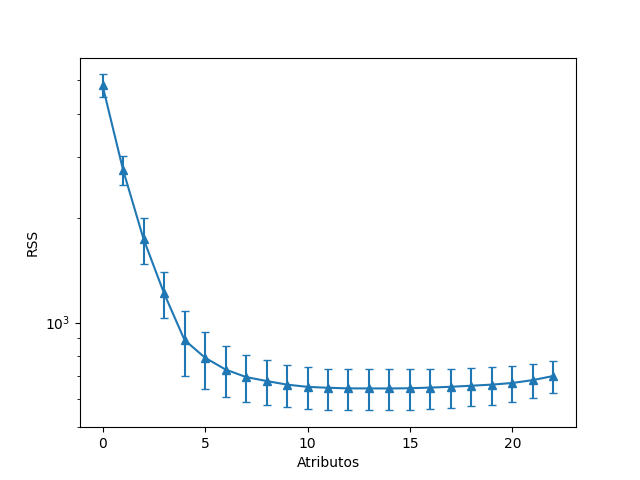
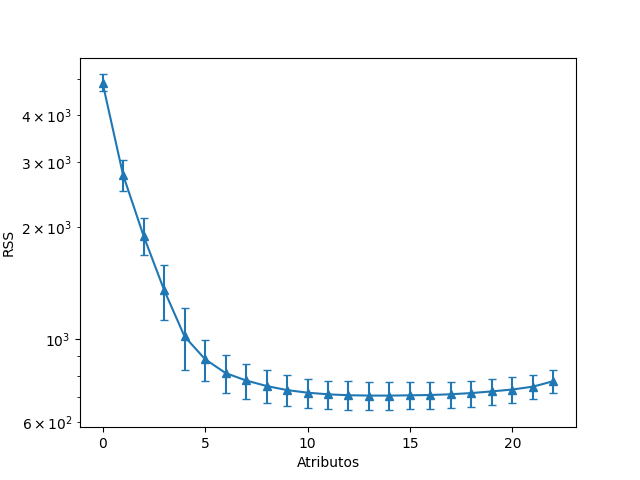
Feat: Final touches to exercise

diff --git a/ej_regresion/main.py b/ej_regresion/main.py
@@ -4,7 +4,7 @@ import numpy as np
 import random
 import matplotlib.pyplot as plt
 from math import sqrt
-from constants import Headers, x_headers_list
+from constants import Headers, x_headers_list, best_headers_list
 import matplotlib.gridspec as gridspec
 from sklearn.model_selection import train_test_split
 
@@ -31,6 +31,9 @@ def split_df_filtered_attributes(df, attributes, seed):
     y = df[Headers.WEIGHT.value]
     x_train, x_test, y_train, y_test = split_train_test_dataset(x, y, seed)
     return x_train, x_test, y_train, y_test
+
+def split_df_good_attributes(df, seed):
+    return split_df_filtered_attributes(df, best_headers_list, seed)
 
 def run_regression(x_train, y_train):
     # Convert X and Y to matrix and array
@@ -109,13 +112,17 @@ def main():
     df = read_data(args.file)
 
     graph_data2 = []
-    error2 = []
     graph_data3 = []
+    graph_data4 = []
+    error2 = []
     error3 = []
-    for attr in range(len(x_headers_list)):
+    error4 = []
+    attribute_scores = {}
+    for attr in x_headers_list:
         graph_data3.append([])
         error3.append([])
-    for i in range(10):
+        attribute_scores[attr] = 0
+    for i in range(250):
         seed = random.randint(1, 9999)
 
         # EJERCICIO 2
@@ -135,54 +142,74 @@ def main():
 
         # EJERCICIO 3 (Forward Selection, usa solo RSS)
         #print("\n== EJERCICIO 3 -- FORWARD SELECTION ==")
-        p = len(x_headers_list)
-        list_of_attributes = []
-        best_attributes = []
-        best_attributes_global = []
-        best_data = []
-        best_data_global = []
-        min_RSS_global = 99999999
-        for amount_of_attributes in range(p):
-            min_RSS = 99999999
-            for attr in x_headers_list:
-                current_attributes = list_of_attributes.copy()
-                current_attributes.append(attr)
-                x_train, x_test, y_train, y_test = split_df_filtered_attributes(df, current_attributes, seed)
-                B, X = run_regression(x_train, y_train)
-                if B is not None:
-                    RSS, TSS, sigma2, R2, R2adj, F = test(x_test, y_test, B)
-                    if RSS < min_RSS:
-                        min_RSS = RSS
-                        best_attributes = current_attributes.copy()
-                        best_data = [B, RSS, TSS, sigma2, R2, R2adj, F]
-            list_of_attributes = best_attributes.copy()
-            #print(amount_of_attributes+1, "attributes -> RSS =", min_RSS)
-            graph_data3[amount_of_attributes].append(min_RSS)
-            error3[amount_of_attributes].append(sqrt(sigma2))
-            if min_RSS < min_RSS_global:
-                best_attributes_global = best_attributes.copy()
-                min_RSS_global = min_RSS
-                best_data_global = best_data.copy()
+        #p = len(x_headers_list)
+        #list_of_attributes = []
+        #best_attributes = []
+        #best_attributes_global = []
+        #best_data = []
+        #best_data_global = []
+        #min_RSS_global = 99999999
+        #for amount_of_attributes in range(p):
+        #    min_RSS = 99999999
+        #    for attr in x_headers_list:
+        #        current_attributes = list_of_attributes.copy()
+        #        current_attributes.append(attr)
+        #        x_train, x_test, y_train, y_test = split_df_filtered_attributes(df, current_attributes, seed)
+        #        B, X = run_regression(x_train, y_train)
+        #        if B is not None:
+        #            RSS, TSS, sigma2, R2, R2adj, F = test(x_test, y_test, B)
+        #            if RSS < min_RSS:
+        #                min_RSS = RSS
+        #                best_attributes = current_attributes.copy()
+        #                best_data = [B, RSS, TSS, sigma2, R2, R2adj, F]
+        #    list_of_attributes = best_attributes.copy()
+        #    for attr in list_of_attributes:
+        #        attribute_scores[attr] += 1
+        #    print(amount_of_attributes+1, "attributes -> RSS =", min_RSS)
+        #    graph_data3[amount_of_attributes].append(min_RSS)
+        #    error3[amount_of_attributes].append(sqrt(sigma2))
+        #    if min_RSS < min_RSS_global:
+        #        best_attributes_global = best_attributes.copy()
+        #        min_RSS_global = min_RSS
+        #        best_data_global = best_data.copy()
         #print("\nRSS = ", min_RSS_global, " using", len(best_attributes_global),"attributes:")
         #print(best_attributes_global)
         #print("sigma2 =", best_data_global[3])
         #print("R2 =", best_data_global[4])
         #print("R2 adj =", best_data_global[5])
         #print("F =", best_data_global[6])
+
+        print("== EJERCICIO 4 -- NUEVO MODELO ==")
+        x_train, x_test, y_train, y_test = split_df_good_attributes(df, seed)
+        B, X = run_regression(x_train, y_train)
+        RSS, TSS, sigma2, R2, R2adj, F = test(x_test, y_test, B)
+        varB = sigma2 * (X.T*X).I
+        print("RSS =", RSS)
+        graph_data4.append(RSS)
+        error4.append(sqrt(sigma2))
+        print("sigma2 =", sigma2)
+        print("R2 =", R2)
+        print("R2 adj =", R2adj)
+        print("F =", F)
+        get_standard_error(x_train, B, sigma2)
     plot_x = []
     plot_y = []
     plot_e = []
-    for i in range(p):
-        plot_x.append(i)
-        plot_y.append(np.mean(graph_data3[i]))
-        plot_e.append(np.std(graph_data3[i]))
-    fig = plt.figure()
-    ax = plt.axes()
-    ax.set_yscale("log")
-    ax.errorbar(plot_x, plot_y, plot_e, marker='^', capsize=3)
-    ax.set_xlabel("Atributos")
-    ax.set_ylabel("RSS")
-    plt.show()
+    #for i in range(p):
+    #    plot_x.append(i)
+    #    plot_y.append(np.mean(graph_data3[i]))
+    #    plot_e.append(np.std(graph_data3[i]))
+    #print(attribute_scores)
+    #fig = plt.figure()
+    #ax = plt.axes()
+    #ax.set_yscale("log")
+    #ax.errorbar(plot_x, plot_y, plot_e, marker='^', capsize=3)
+    #ax.set_xlabel("Atributos")
+    #ax.set_ylabel("RSS")
+    #plt.show()
+    print("== FINAL RESULTS ==")
+    print("Median:", np.median(graph_data2), " vs", np.median(graph_data4))
+    print("Avg:", np.average(graph_data2), " vs", np.average(graph_data4))
 
 
 if __name__ == '__main__':

diff --git a/ej_regresion/constants.py b/ej_regresion/constants.py
@@ -31,3 +31,8 @@ x_headers_list = [ Headers.BICROMIAL.value, Headers.PELVIC_BREADTH.value, Header
     Headers.SHOULDER_GIRTH.value, Headers.CHEST_GIRTH.value, Headers.WAIST_GIRTH.value, Headers.NAVEL_GIRTH.value, Headers.HIP_GIRTH.value,
     Headers.THIGH_GIRTH.value, Headers.BICEP_GIRTH.value, Headers.FOREARM_GIRTH.value, Headers.KNEE_GIRTH.value, Headers.CALF_GIRTH.value,
     Headers.ANKLE_GIRTH.value, Headers.WRIST_GIRTH.value, Headers.AGE.value, Headers.HEIGHT.value ]
+
+best_headers_list = [ Headers.WAIST_GIRTH.value, Headers.HEIGHT.value, Headers.HIP_GIRTH.value,
+                Headers.THIGH_GIRTH.value, Headers.CHEST_GIRTH.value, Headers.KNEE_GIRTH.value, Headers.CALF_GIRTH.value,
+                Headers.AGE.value, Headers.FOREARM_GIRTH.value, Headers.KNEE_DIAM.value, Headers.CHEST_DEPTH.value,
+                Headers.PELVIC_BREADTH.value, Headers.SHOULDER_GIRTH.value, Headers.CHEST_DIAM.value, Headers.BICEP_GIRTH.value ]
